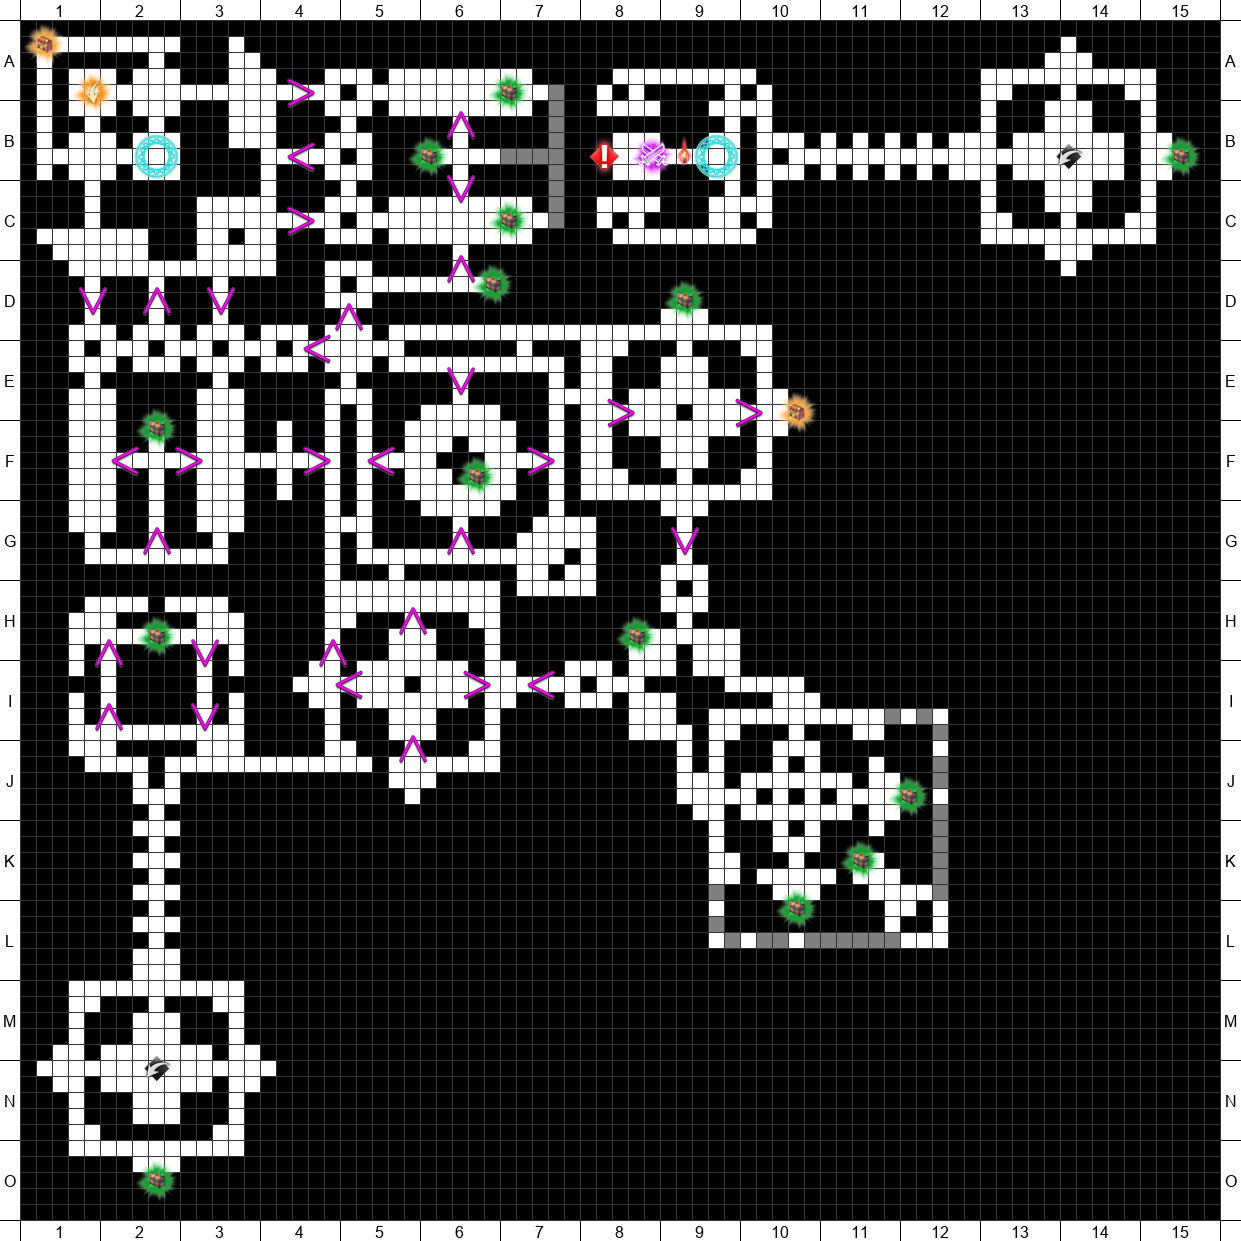
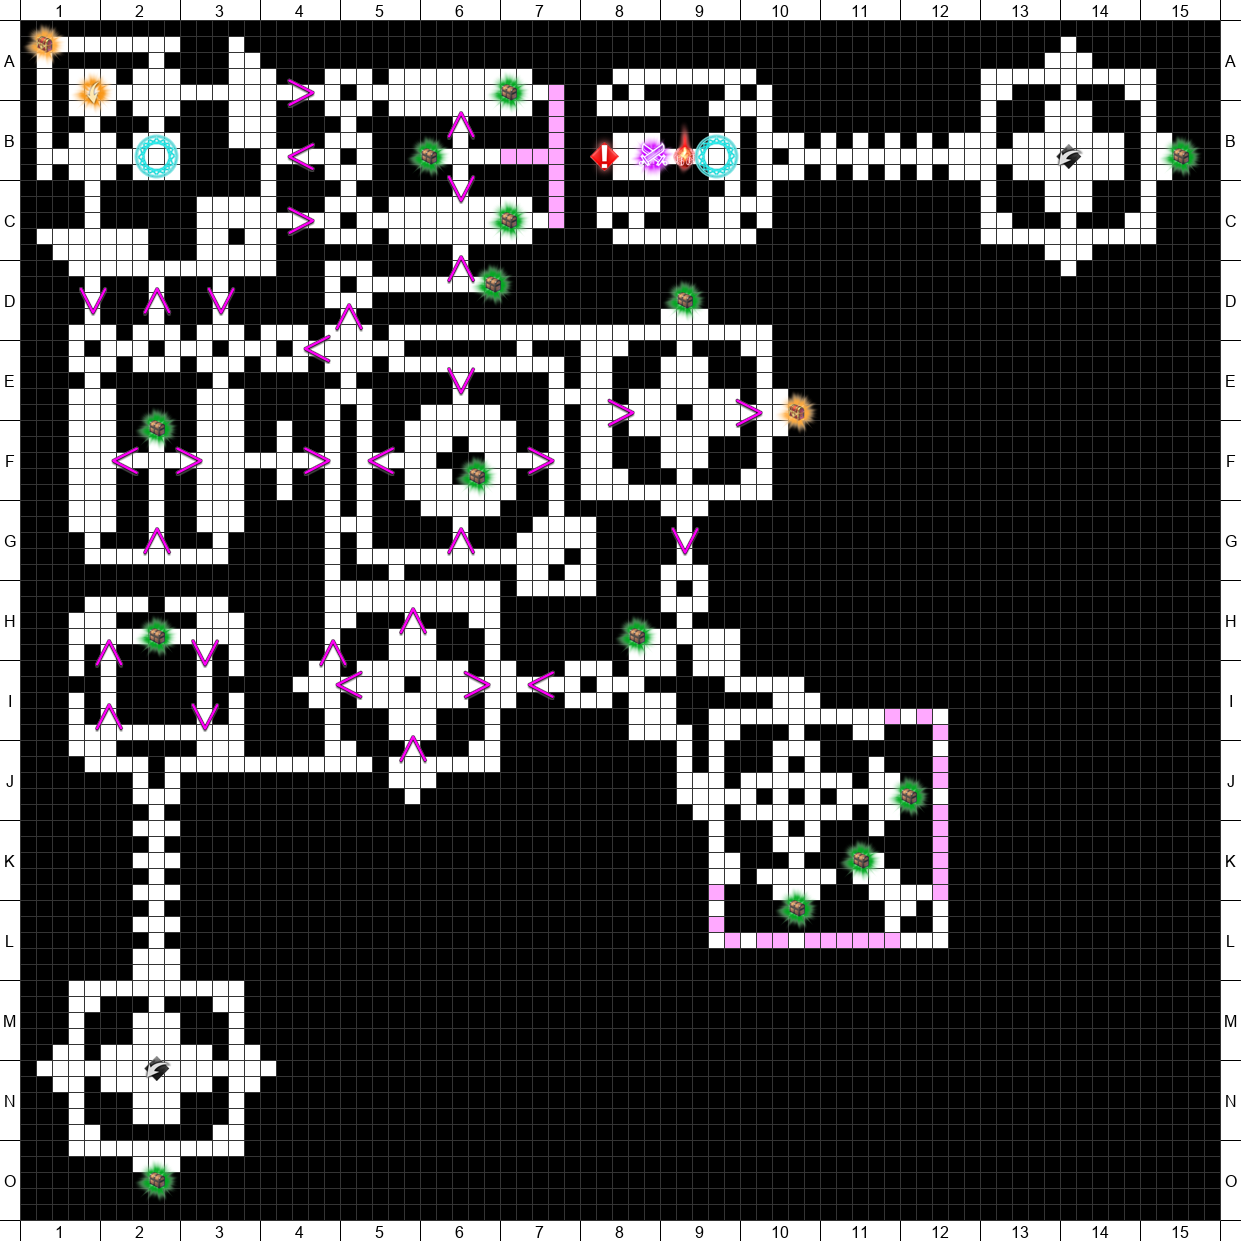
Updated dream path 2f map

diff --git a/maps/map_render_img.py b/maps/map_render_img.py
@@ -705,9 +705,9 @@ pixels = map_img.load()
 # Actually draw the grid and cells
 # floor = Oblivion1F()
 # floor = Oblivion2F()
-floor = Oblivion3F()
+# floor = Oblivion3F()
 # floor = DreamPath1F()
-# floor = DreamPath2F()
+floor = DreamPath2F()
 # floor = Despair1F()
 # floor = Anguish1F()
 # floor = Anguish2F()
